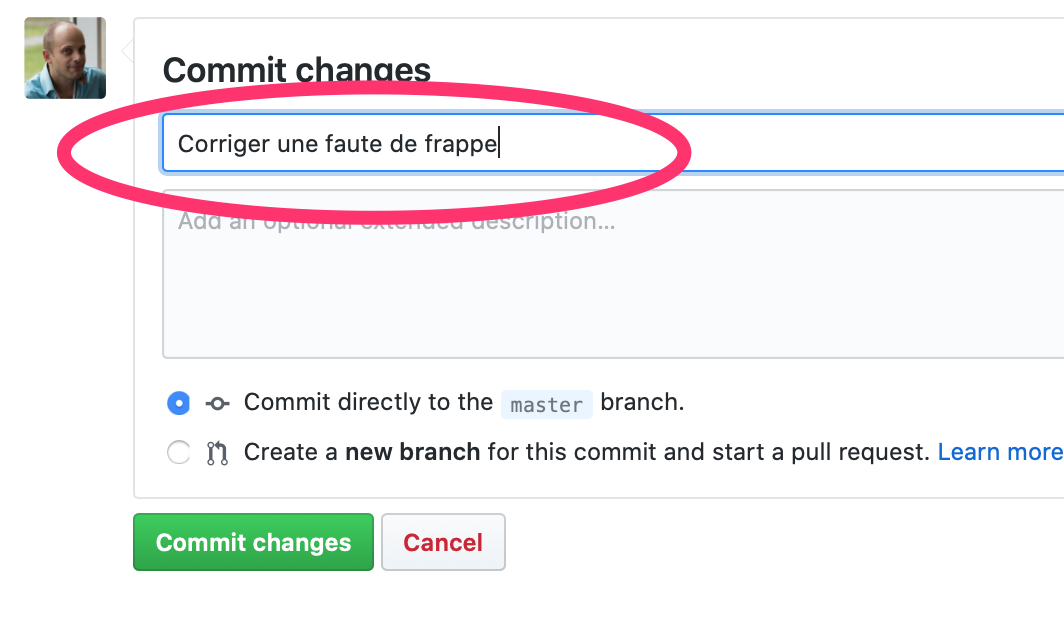
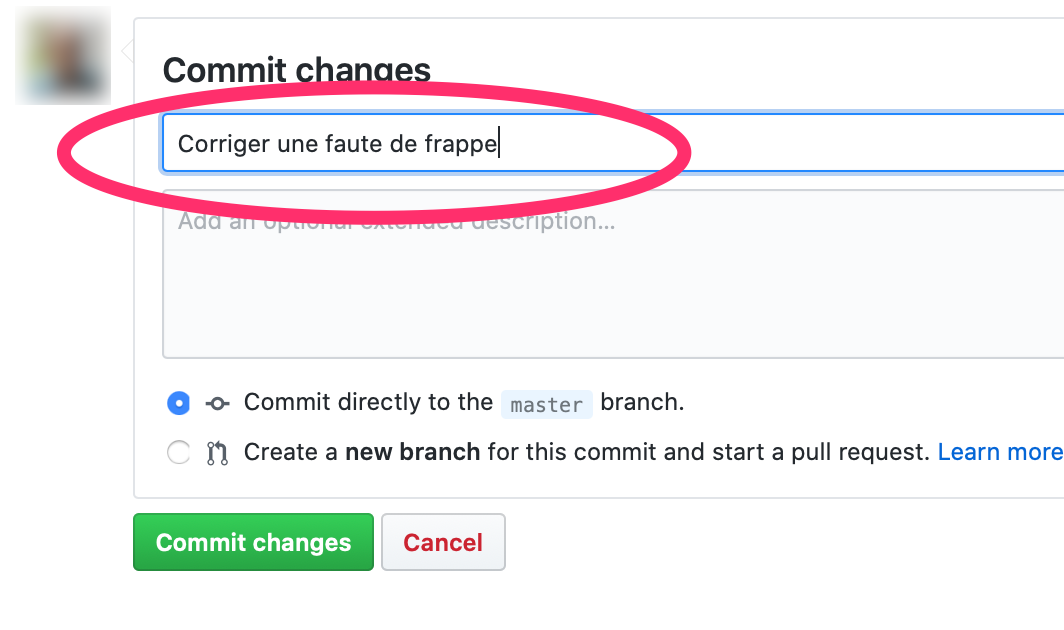
#43 retirer les identifiants des captures d'écran

Changed region(s): [[0.0, 0.0, 0.1241, 0.181]]

diff --git a/docs/guide-admin.html b/docs/guide-admin.html
@@ -35,7 +35,7 @@ Les fichiers doivent contenir uniquement des lettres minuscules, des chiffres, d
 * abc-123.pdf
 * ceci_est_une_photo.jpg
 
-## Gestion de fichiers 
+## Gestion de fichiers
 
 Dans le CMS à http://aphcq.dcycleproject.org/admin/, utiliser la fonction "média" dans la barre du haut pour gérer vos fichiers.
 
@@ -53,15 +53,15 @@ Disons que nos modifications arrêtent d'être reflétées sur le site, on peut 
 
 Optionnel: quand on fait une modification à une page, [par exemple la page Bulletins](https://github.com/aphcq-association/site-web/edit/master/docs/bulletin.html), avant de faire "Commit changes" (l'équivalent de "sauvegarder"), mettre un "message" qui décrit nos changements.
 
-<img src="/media/admin-1.png" />
+<img src="/media/admin-1.png?token={{ site.time | date: '%s' }}" />
 
 Plus tard, on peut voir la liste de tous les changements au site en allant dans la section "Commits" comme dans l'image suivante:
 
-<img src="/media/admin-2.png" />
+<img src="/media/admin-2.png?token={{ site.time | date: '%s' }}" />
 
 Si le site ne s'auto-génère plus, on peut identifier le changements à la source du problème en visitant la liste des "commits" et en identifiant le premier commit qui a un "x" rouge à côté, comme dans cette image.
 
-<img src="/media/admin-3.png" />
+<img src="/media/admin-3.png?token={{ site.time | date: '%s' }}" />
 
 Chaque "commit" peut être examiné en cliquant sur son identité, dans l'exemple ci-dessus, "9bc166c". Dans cet exemple précis, cela nous mène à:
 
